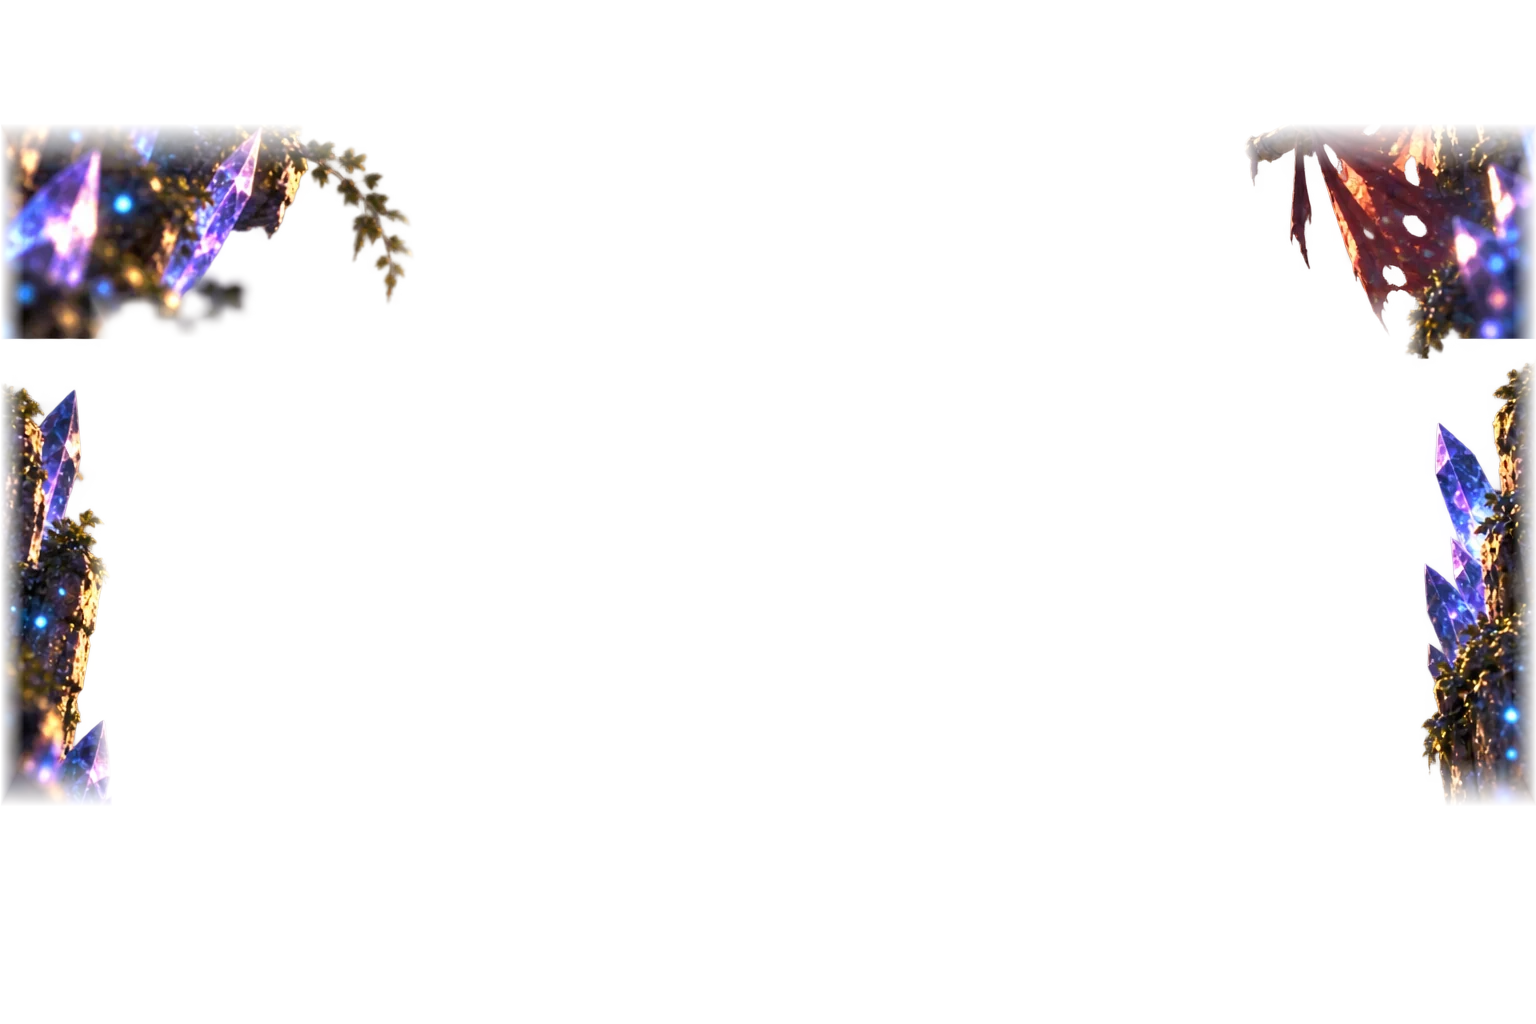
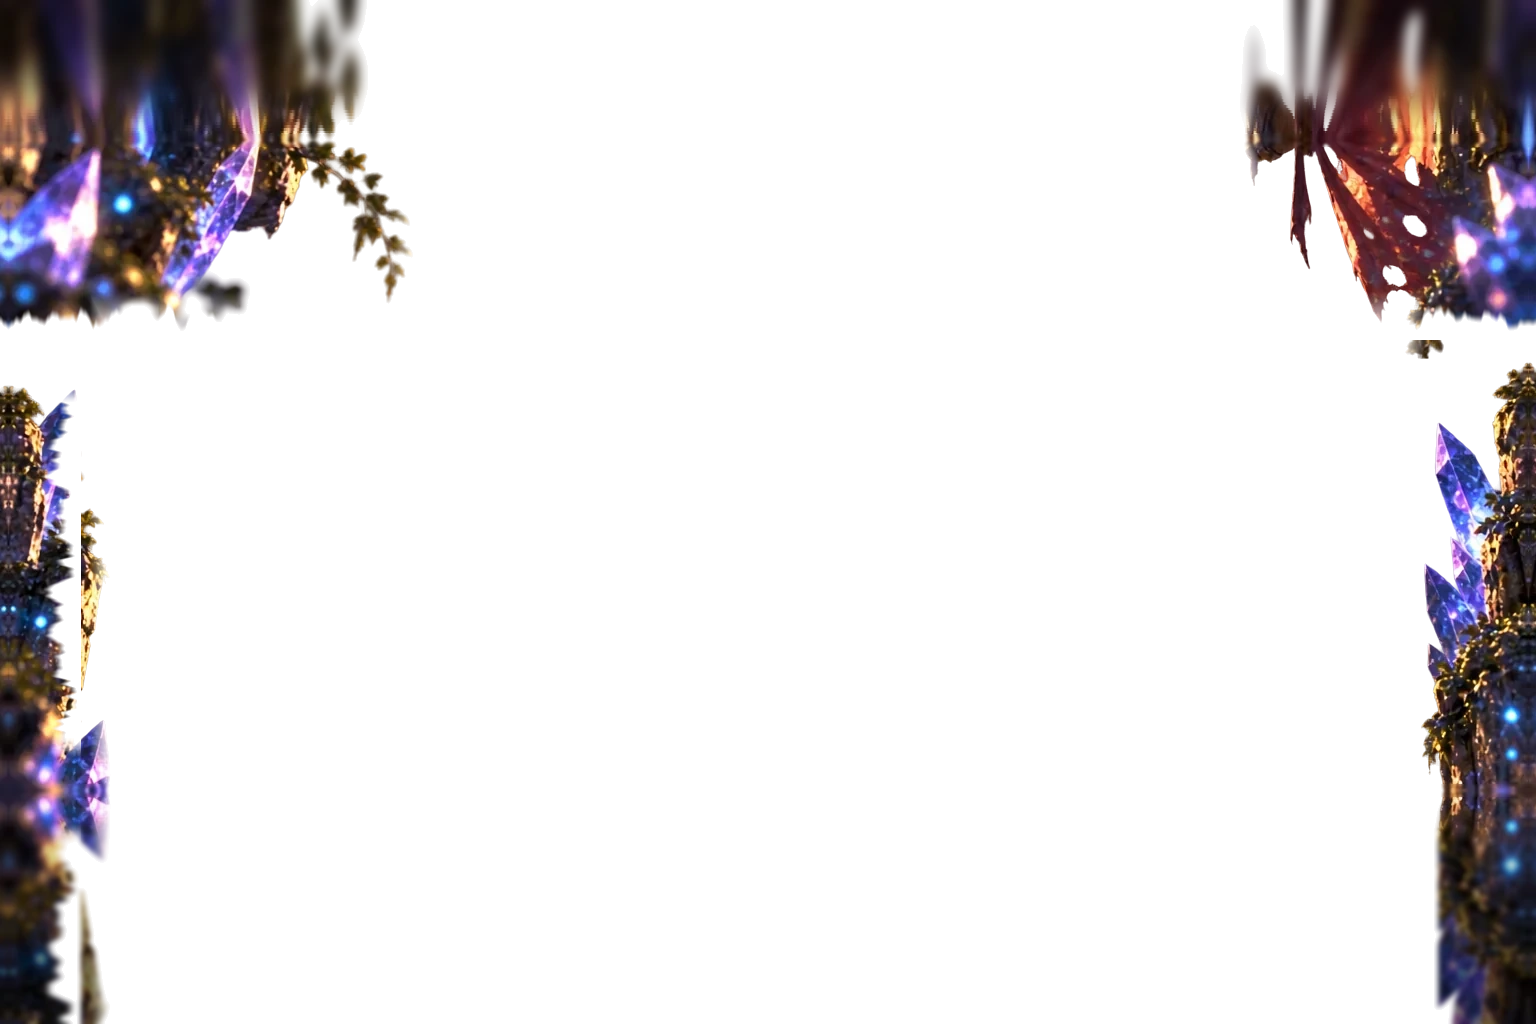
Repair the foreground layers' cut-out edges
Art wave 02 cut every foreground post, pillar and canopy with one shared
rectangle that faded over 48 px. Since the layer moves furthest in the
parallax, the posts dissolved into a smear a third of the way up the screen,
the canopies ended in a straight line, and the outer edges went see-through.
The canyon also had straight slices under its canopies and down its left
pillar, and the cove had a blurred lump by its right post.

tools/art/fix_fg.py divides the fade back out and carries each piece past
the old cut. Posts are mirrored down off the bottom, and canopies folded up
off the top, darkening and softening as they go. Straight slices become
ragged soft edges, and the lump is erased. It runs once per layer (the
manifest records it) and reports any straight cuts left.

scene.js now caps the foreground's parallax speed so its own edge never
slides into view at the end of a long explore pan, and clamps it under
zoomed and tilted shots. ?debug exposes the stage as window.__stage.

Claude-Session: https://claude.ai/code/session_016gaJMXHjTjey38oecPUwF2

diff --git a/src/ui/scene.js b/src/ui/scene.js
@@ -14,6 +14,7 @@ import { assetInfo, currentFrame } from "./sprites.js";
 const TAU = Math.PI * 2;
 const [STAGE_W, STAGE_H] = LAYOUT.stage;
 const C = { x: STAGE_W / 2, y: STAGE_H / 2 };
+const FG_ZOOM = 1.03; // the foreground layer is drawn a touch bigger, as if nearer the lens
 
 // How each kind of creature moves when it isn't doing anything.
 // breathe: vertical stretch; sway/wave: sideways drift that grows with height
@@ -141,6 +142,15 @@ export function createStage(field, { background = null, mode = "battle" } = {}) 
     const hi = (imgLeft + imgW * fit.scale - C.x - (STAGE_W - C.x) / z) / fNear;
     return [Math.min(lo, 0), Math.max(hi, 0)];
   }
+
+  // The foreground layer moves fastest, but never so far that its edge slides
+  // into view at the end of a pan (the explore camera pans a long way).
+  const fgFactor = (() => {
+    const want = 1 + fit.damp * 0.9 + 0.25;
+    const slack = C.x - C.x / FG_ZOOM - imgLeft;
+    const [lo, hi] = panLimits();
+    return Math.max(1, Math.min(want, slack / Math.max(-lo, hi, 1)));
+  })();
 
   const onMouse = (e) => {
     const r = field.getBoundingClientRect();
@@ -358,11 +368,13 @@ export function createStage(field, { background = null, mode = "battle" } = {}) 
     fgc.clearRect(0, 0, front.width, front.height);
     if (fg?.ready) {
       fgc.setTransform(dpr, 0, 0, dpr, 0, 0);
-      const f = 1 + fit.damp * 0.9 + 0.25;
-      const zz = z * 1.03;
-      const sx = C.x + zz * (imgLeft - C.x - camera.x * f);
-      const sy = C.y + zz * (imgTop - C.y - camera.y * 1.2);
-      fgc.drawImage(fg.img, sx, sy, imgW * s * zz, imgH * s * zz);
+      const zz = z * FG_ZOOM;
+      const w = imgW * s * zz;
+      const hh = imgH * s * zz;
+      // its own edges never come on screen, even in a zoomed or tilted shot
+      const sx = Math.min(0, Math.max(STAGE_W - w, C.x + zz * (imgLeft - C.x - camera.x * fgFactor)));
+      const sy = Math.min(0, Math.max(STAGE_H - hh, C.y + zz * (imgTop - C.y - camera.y * 1.2)));
+      fgc.drawImage(fg.img, sx, sy, w, hh);
     }
   }
 
@@ -423,7 +435,7 @@ export function createStage(field, { background = null, mode = "battle" } = {}) 
     layoutFns.clear();
   }
 
-  return {
+  const stage = {
     world,
     camera,
     fit,
@@ -441,6 +453,9 @@ export function createStage(field, { background = null, mode = "battle" } = {}) 
     resume,
     stop,
   };
+  // for automated playtests (?debug): steer the camera from outside
+  if (typeof location !== "undefined" && new URLSearchParams(location.search).has("debug")) window.__stage = stage;
+  return stage;
 }
 
 const REDUCED = typeof matchMedia !== "undefined" && matchMedia("(prefers-reduced-motion: reduce)").matches;

diff --git a/tools/art/fix_fg.py b/tools/art/fix_fg.py
@@ -1,0 +1,262 @@
+"""Repair the cut-out edges of the battle backdrops' foreground layers.
+
+Art wave 02 delivered each foreground layer (bg_*_fg.webp: the posts, pillars
+and canopies that frame a scene and move fastest in the parallax) cut out with
+one shared rectangle whose edges fade over about 48 px. In the game that fade
+shows: posts and pillars dissolve into a smear a third of the way up the
+screen, canopies end in a straight line, and the outer edge goes see-through.
+
+This pass, per layer:
+  1. divides the rectangle's fade back out of the alpha, so every piece is
+     solid right up to the old cut;
+  2. carries each piece past the cut, mirroring the last stretch of it and
+     darkening and softening it as it goes (a post or canopy that close to
+     the camera falls into shadow and out of focus), so the bottom of a post
+     and the top of a canopy are always off screen;
+  3. mirrors a few columns out to the left and right edges;
+  4. erases the odd blurred smudge (ERASE below).
+
+Only pieces that actually reach a cut are carried past it: a torn flag that
+ends above the cut doesn't grow a mirrored twin.
+
+    python3 tools/art/fix_fg.py            fix the layers the manifest lists (once each)
+    python3 tools/art/fix_fg.py --check    report what it would do, and any straight cuts left
+
+The manifest records "cleaned" on each fixed layer, so running it again does
+nothing. Needs Pillow and numpy.
+"""
+
+import json
+import sys
+from pathlib import Path
+
+import numpy as np
+from PIL import Image, ImageDraw, ImageFilter
+
+ROOT = Path(__file__).resolve().parents[2]
+ASSETS = ROOT / "public" / "assets"
+MANIFEST = ASSETS / "manifest.json"
+TAG = "tools/art/fix_fg.py"
+
+# The wave 02 cut, measured on all three layers (1536x1024): alpha ramps
+# linearly from 0 to 1 over these spans.
+RAMP_LEFT = (0.0, 24.0)
+RAMP_RIGHT = (1536.0, 1512.0)
+RAMP_TOP = (123.4, 172.0)
+RAMP_BOTTOM = (806.1, 757.5)
+
+AXIS_TOP = 140  # rows above this are rebuilt (carried upward)
+AXIS_BOTTOM = 790  # rows below this are rebuilt (carried downward)
+AXIS_LEFT = 8
+AXIS_RIGHT = 1528
+
+# How each cut is carried on. squash < 1 folds the mirror image closer to the
+# cut, so a canopy reads as out-of-focus fronds rather than a kaleidoscope;
+# shade is how much darker it gets at the far end, blur how soft.
+BOTTOM = dict(squash=1.0, shade=0.55, span=190.0, blur=2.5)
+TOP = dict(squash=0.35, shade=0.7, span=110.0, blur=6.0)
+
+# Straight cuts inside the frame, where a piece was sliced off by the export
+# rather than ending on its own: ("row", y, x0, x1) keeps what's above row y,
+# ("col", x, y0, y1) keeps what's left of column x. Each becomes a ragged,
+# soft edge (these pieces are out of focus anyway). Found with --check.
+CUTS = {
+    "bg_crystal_canyon": [("row", 340, 0, 1536), ("col", 81, 380, 760)],
+    "bg_jungle_ruins": [("col", 82, 360, 650)],
+}
+RAGGED = 34  # how far (px) a ragged edge wanders back from the old cut
+SOFT = 10  # px of soft edge
+
+# Bits that were painted as an out-of-focus smudge rather than a shape, erased
+# by hand (polygons in image pixels). Reviewed by eye.
+ERASE = {
+    "bg_shipwreck_cove": [
+        # a blurred lump at the foot of the right-hand post
+        [(1470, 636), (1501, 636), (1501, 830), (1430, 830), (1430, 712), (1456, 712), (1456, 690), (1470, 690)],
+    ],
+}
+
+
+def ramp(v, zero, one):
+    return np.clip((v - zero) / (one - zero), 0.0, 1.0)
+
+
+def smoothstep(x):
+    x = np.clip(x, 0.0, 1.0)
+    return x * x * (3 - 2 * x)
+
+
+def frame_fade(w, h):
+    """The cut's fade across columns and down rows (it was applied as their product)."""
+    xs = np.arange(w, dtype=np.float64) + 0.5
+    ys = np.arange(h, dtype=np.float64) + 0.5
+    rx = np.minimum(ramp(xs, *RAMP_LEFT), ramp(xs, *RAMP_RIGHT))
+    ry = np.minimum(ramp(ys, *RAMP_TOP), ramp(ys, *RAMP_BOTTOM))
+    return rx, ry
+
+
+def looks_cut(alpha):
+    """Does this layer have the wave 02 cut? (Checks the bottom fade on solid columns.)"""
+    a = alpha / 255.0
+    solid = np.nonzero(a[740] > 0.95)[0]
+    if len(solid) < 20:
+        return False
+    want = ramp(np.array([770.5, 780.5, 790.5]), *RAMP_BOTTOM)
+    got = a[[770, 780, 790]][:, solid].mean(axis=1)
+    return bool(np.all(np.abs(got - want) < 0.08))
+
+
+def soft(rgb, alpha, radius):
+    """A Gaussian blur that doesn't drag dark fringes in from transparent pixels."""
+    pre = np.dstack([rgb * alpha[:, :, None], alpha * 255.0])
+    chans = [np.asarray(Image.fromarray(pre[:, :, i].clip(0, 255).astype(np.uint8)).filter(ImageFilter.GaussianBlur(radius))).astype(np.float64) for i in range(4)]
+    a = chans[3] / 255.0
+    out = np.dstack(chans[:3]) / np.maximum(a, 1e-3)[:, :, None]
+    return out.clip(0, 255), a
+
+
+def carry(rgb, alpha, axis, direction, squash, shade, span, blur):
+    """Carry every piece that reaches the cut at `axis` on past it (direction -1: up, +1: down)."""
+    h, w = alpha.shape
+    rows = np.arange(h)
+    out_rows = rows[rows < axis] if direction < 0 else rows[rows > axis]
+    dist = np.abs(out_rows - axis).astype(np.float64)
+    # mirror the rows on the near side of the cut, folded closer by `squash`
+    src_rows = np.clip(np.round(axis - direction * dist * squash).astype(int), 0, h - 1)
+    # only columns where a piece reaches the cut carry on past it
+    band = alpha[axis - 10 : axis + 1] if direction > 0 else alpha[axis : axis + 11]
+    reach = band.max(axis=0)
+    reach = np.asarray(Image.fromarray((reach * 255).astype(np.uint8)[None, :]).filter(ImageFilter.MaxFilter(9)).filter(ImageFilter.GaussianBlur(3)))[0] / 255.0
+    reach = smoothstep((reach - 0.2) / 0.6)
+    ext_rgb = rgb[src_rows] * (1.0 - shade * smoothstep(dist / span))[:, None, None]
+    ext_a = alpha[src_rows] * reach[None, :]
+    # softer the further it goes, like something too close to the lens
+    blur_rgb, blur_a = soft(ext_rgb, ext_a, blur)
+    k = smoothstep(dist / 60.0)[:, None]
+    rgb[out_rows] = ext_rgb * (1 - k[:, :, None]) + blur_rgb * k[:, :, None]
+    alpha[out_rows] = ext_a * (1 - k) + blur_a * k
+    # soften the fold line a little
+    lo, hi = axis - 6, axis + 7
+    seam_rgb, seam_a = soft(rgb[lo:hi], alpha[lo:hi], 1.2)
+    rgb[lo:hi], alpha[lo:hi] = seam_rgb, seam_a
+
+
+def noise1d(n, seed, step=14):
+    """Smooth 1-D noise in [0, 1]: two octaves of cosine-interpolated random knots."""
+    rng = np.random.default_rng(seed)
+    out = np.zeros(n)
+    for amp, st in ((0.7, step), (0.3, max(3, step // 3))):
+        knots = rng.random(n // st + 3)
+        t = np.arange(n) / st
+        i = t.astype(int)
+        f = (1 - np.cos((t - i) * np.pi)) / 2
+        out += amp * (knots[i] * (1 - f) + knots[i + 1] * f)
+    return out
+
+
+def ragged(alpha, cut, seed):
+    """Turn a straight cut into a ragged soft edge, eating back up to RAGGED px from it."""
+    kind, at, lo, hi = cut
+    band = RAGGED + SOFT + 2  # only this strip before the cut changes
+    edge = at - RAGGED * noise1d(hi - lo, seed)  # where the piece now ends, along the cut
+    if kind == "row":
+        ys = np.arange(at - band, at)[:, None]
+        alpha[at - band : at, lo:hi] *= smoothstep((edge[None, :] - ys) / SOFT)
+    else:
+        xs = np.arange(at - band, at)[None, :]
+        keep = smoothstep((edge[:, None] - xs) / SOFT)
+        # ease the new edge in over 24 px at each end of the cut
+        span = np.minimum(np.arange(hi - lo), np.arange(hi - lo)[::-1]) / 24.0
+        w = smoothstep(span)[:, None]
+        alpha[lo:hi, at - band : at] *= (1 - w) + w * keep
+
+
+def hard_cuts(alpha):
+    """Long straight edges where a piece goes from solid to clear in a few pixels."""
+    found = []
+    for y in range(150, 790):
+        n = int(((alpha[y - 2] > 0.7) & (alpha[y + 2] < 0.04)).sum())
+        if n > 25:
+            found.append(f"row {y} ({n} px)")
+    for x in range(30, 1506):
+        n = int(((alpha[:, x - 2] > 0.7) & (alpha[:, x + 2] < 0.04)).sum())
+        if n > 60:
+            found.append(f"col {x} ({n} px)")
+    return found
+
+
+def erase(alpha, polygons):
+    mask = Image.new("L", (alpha.shape[1], alpha.shape[0]), 0)
+    draw = ImageDraw.Draw(mask)
+    for poly in polygons:
+        draw.polygon(poly, fill=255)
+    m = np.asarray(mask.filter(ImageFilter.GaussianBlur(2))).astype(np.float64) / 255.0
+    return alpha * (1 - m)
+
+
+def fix(path, key=""):
+    im = Image.open(path).convert("RGBA")
+    arr = np.asarray(im).astype(np.float64)
+    rgb = arr[:, :, :3].copy()
+    a8 = arr[:, :, 3]
+    if not looks_cut(a8):
+        return None
+    h, w = a8.shape
+    rx, ry = frame_fade(w, h)
+    alpha = a8 / 255.0
+    # divide the fade back out wherever it left enough to work with (the rest is rebuilt below)
+    usable = (ry[:, None] > 0.3) & (rx[None, :] > 0.3)
+    fade = np.maximum(ry[:, None] * rx[None, :], 1e-6)
+    alpha = np.where(usable, np.minimum(1.0, alpha / fade), alpha)
+    # the export never quite reached full alpha (252 of 255): make solid solid
+    alpha = np.clip((alpha - 0.03) / 0.9, 0.0, 1.0)
+    if key in ERASE:
+        alpha = erase(alpha, ERASE[key])
+    for i, cut in enumerate(CUTS.get(key, [])):
+        ragged(alpha, cut, seed=7 + 31 * i + len(key))
+    # the side edges: mirror a few columns out to the border
+    for x in range(0, AXIS_LEFT):
+        src = 2 * AXIS_LEFT - x
+        rgb[:, x], alpha[:, x] = rgb[:, src], alpha[:, src]
+    for x in range(AXIS_RIGHT + 1, w):
+        src = 2 * AXIS_RIGHT - x
+        rgb[:, x], alpha[:, x] = rgb[:, src], alpha[:, src]
+    carry(rgb, alpha, AXIS_BOTTOM, +1, **BOTTOM)
+    carry(rgb, alpha, AXIS_TOP, -1, **TOP)
+    # a clean edge: drop the faintest haze, keep soft edges soft
+    alpha = np.where(alpha < 0.04, 0.0, alpha)
+    out = np.dstack([rgb, alpha * 255.0]).clip(0, 255).astype(np.uint8)
+    return Image.fromarray(out, "RGBA"), alpha
+
+
+def main():
+    check = "--check" in sys.argv
+    manifest = json.loads(MANIFEST.read_text(encoding="utf8"))
+    changed = False
+    for key, entry in manifest["assets"].items():
+        fg = entry.get("fg") if isinstance(entry, dict) else None
+        if not fg or not fg.get("src"):
+            continue
+        if fg.get("cleaned") == TAG:
+            print(f"{key}: already fixed")
+            continue
+        path = ASSETS / fg["src"]
+        result = fix(path, key)
+        if result is None:
+            print(f"{key}: no wave 02 cut found, left alone")
+            continue
+        img, alpha = result
+        semi = float(((alpha > 0.04) & (alpha < 0.96)).mean())
+        left = hard_cuts(alpha)
+        print(f"{key}: fixed ({semi:.1%} of pixels soft-edged; straight cuts left: {', '.join(left) or 'none'})")
+        if check:
+            continue
+        img.save(path, "WEBP", quality=92, method=6, exact=True)
+        fg["cleaned"] = TAG
+        changed = True
+    if changed:
+        MANIFEST.write_text(json.dumps(manifest, indent=2) + "\n", encoding="utf8")
+
+
+if __name__ == "__main__":
+    main()

diff --git a/art/PRODUCTION.md b/art/PRODUCTION.md
@@ -45,7 +45,7 @@ Never add franchise names. Never drop the rules block.
 | Guide | Use it for | What it pins down |
 |---|---|---|
 | `battle_stage.png` | Battle backgrounds | Eye level (where perspective meets), the back edge of the arena floor, where heroes and fiends stand and how tall they are, what the turn-order bar and the menus cover, how far the camera drifts |
-| `battle_foreground.png` | Foreground parallax layers | The only areas a foreground may use (green), and the area that must stay transparent (red) |
+| `battle_foreground.png` | Foreground parallax layers | The only areas a foreground may use (green), and the area that must stay transparent (red). Each piece must run off the image's edge (a post off the bottom, a canopy off the top) and be cut out along its own outline. Never crop or fade it at the green area's border: the game moves this layer furthest, so a piece that ends in mid-air or fades out shows as a smear (wave 02's did; `tools/art/fix_fg.py` repaired them) |
 | `hero_battle_sheet.png` | Hero battle sheets | Baseline, head height, cell margins, facing |
 | `portrait.png` | Portraits | Where the eyes and mouth go (the turn-order bar shows only that circle) |
 | `icon_sheet.png` | Icon sheets | The 4×4 cells and the safe circle |

diff --git a/CLAUDE.md b/CLAUDE.md
@@ -9,7 +9,7 @@ A Final Fantasy X–style learning RPG with Monkey Island–style humor, for one
 - `npm test`: unit tests (`node --test`). Run before every commit.
 - `npm run build`: bundle to `dist/` (esbuild). `npm run dev` serves it at http://localhost:8000 with rebuilds.
 - `?battle=t1` … `t4` or `?battle=free` jumps straight into a fight, which is quickest for checking UI or new art.
-- `?explore` jumps into the adventure. Add `&debug` to expose `window.__world`, `window.__puzzle` and `window.__battle` for automated playtests, and `&calm` to turn ambushes off.
+- `?explore` jumps into the adventure. Add `&debug` to expose `window.__world`, `window.__puzzle`, `window.__battle` and `window.__stage` (the camera) for automated playtests, and `&calm` to turn ambushes off.
 
 ## Layout
 
